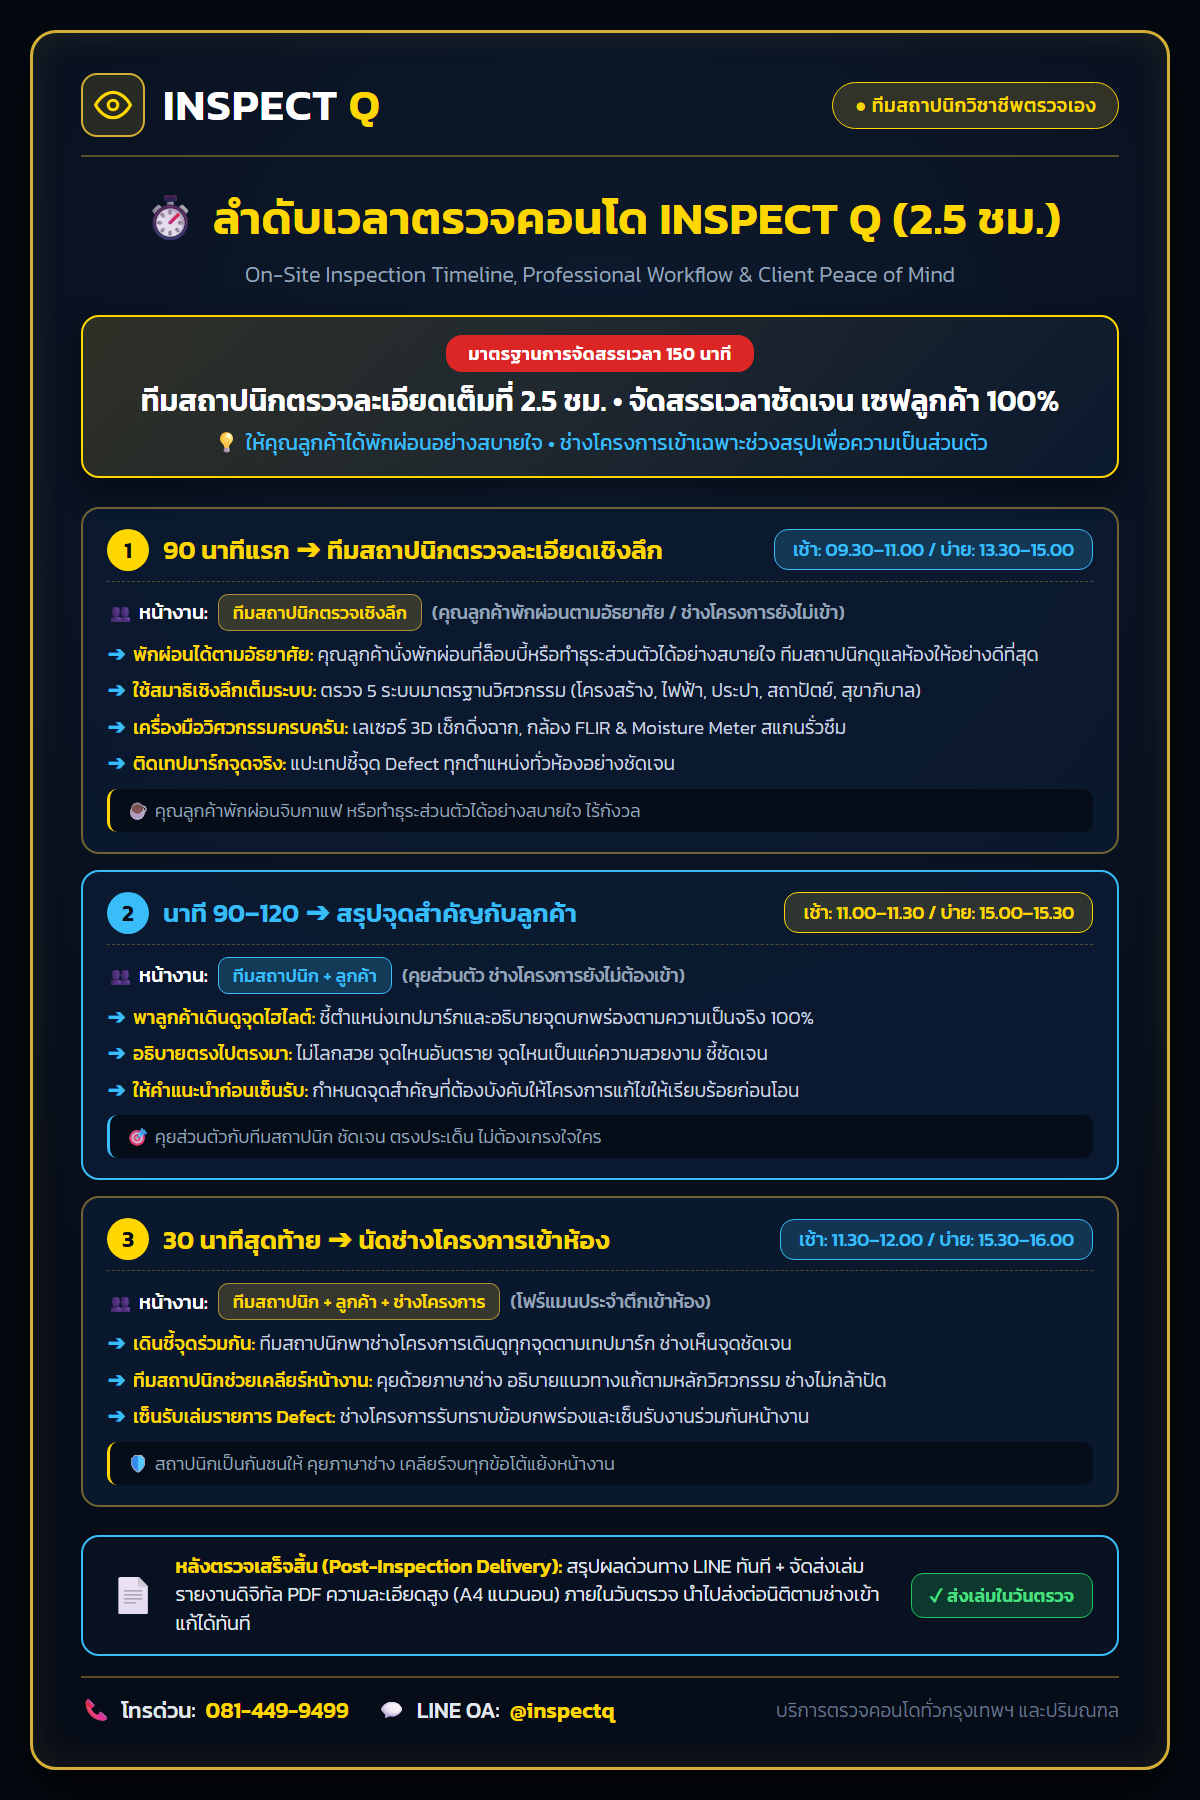
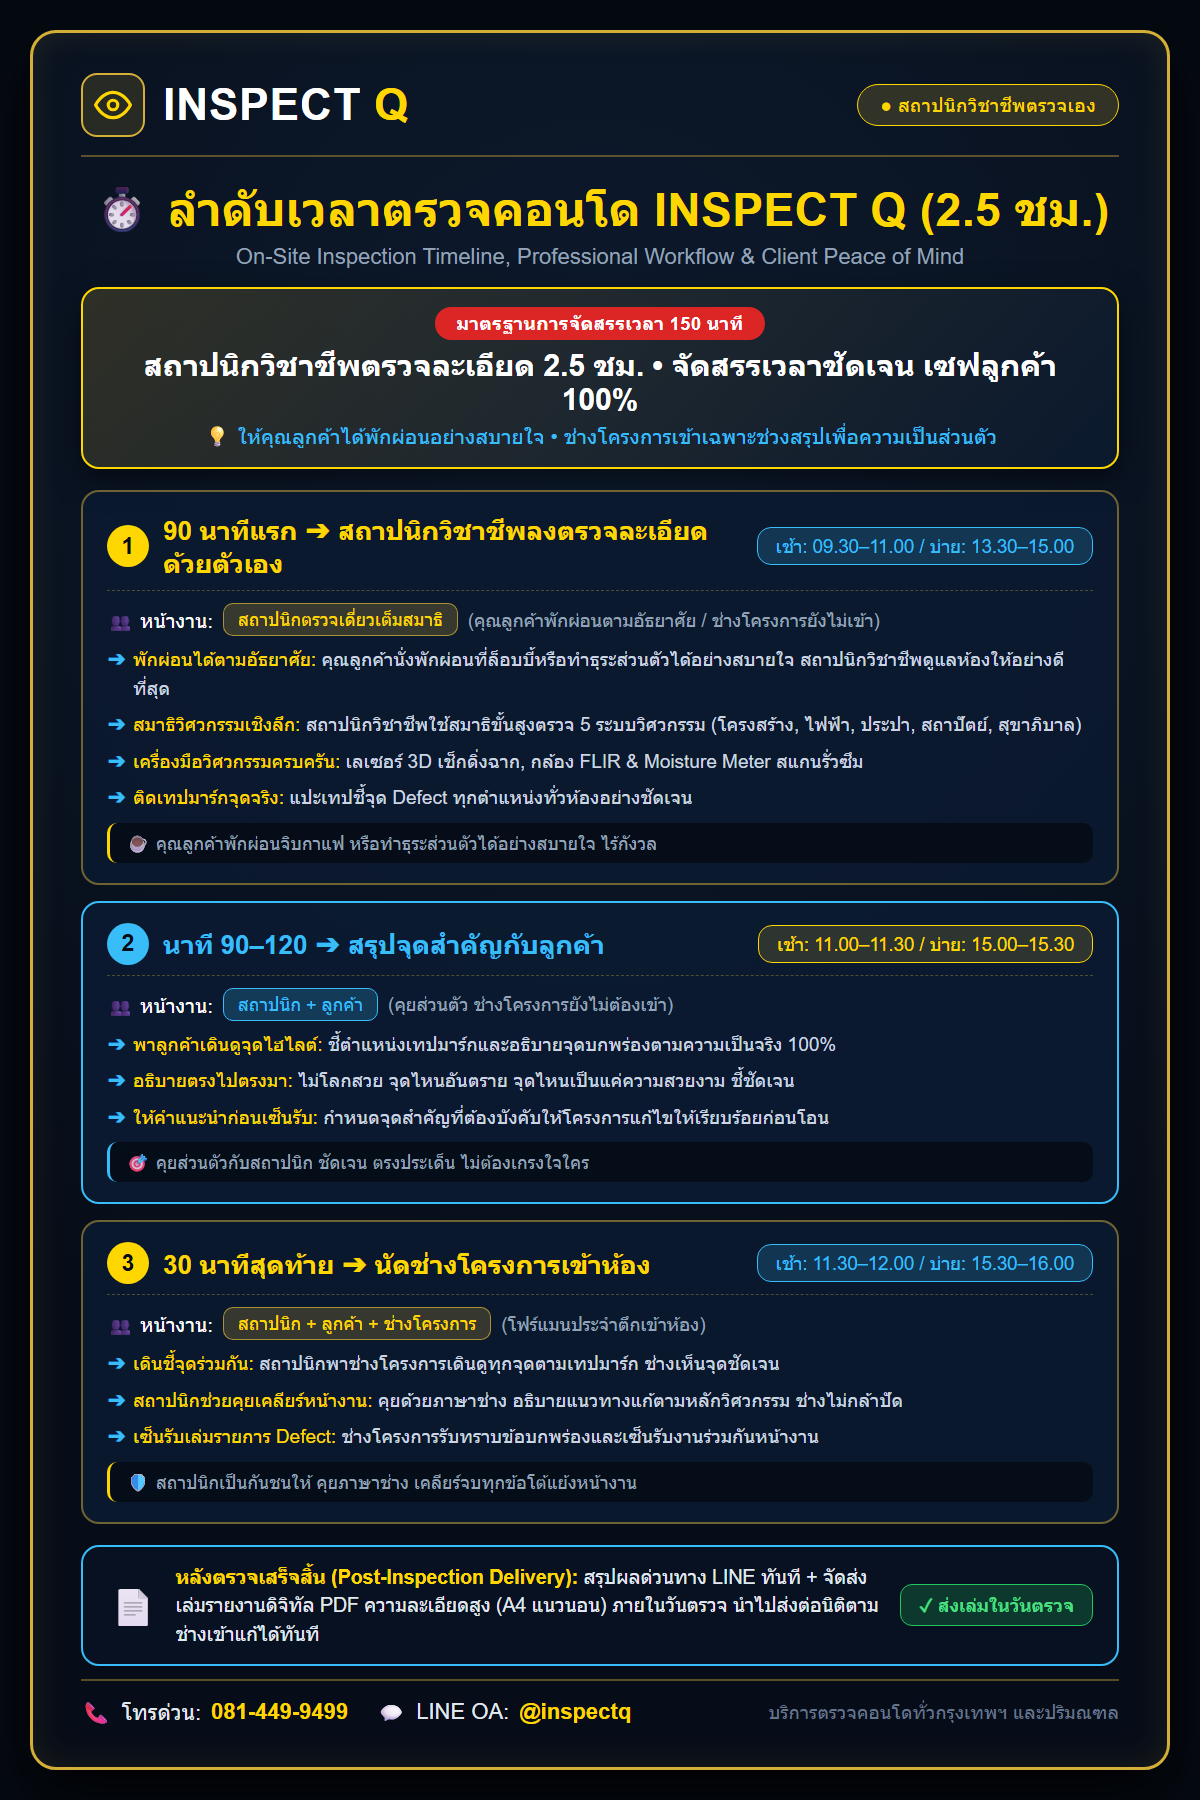
chore: update Card 09 wording to 'สถาปนิกวิชาชีพลงตรวจละเอียดด้วยตัวเอง' (no ทีม, no คนเดียว)

Changed region(s): [[0.0617, 0.0311, 0.925, 0.9644]]

diff --git a/line.html b/line.html
@@ -689,16 +689,16 @@ https://seemee1234-dev.github.io/seemeinspect/landing.html
     </div>
     <div class="content-box" id="t12" contenteditable="false">🏛 ลำดับเวลาตรวจคอนโด INSPECT Q (2.5 ชม.) ⏱
 
-1⃣ 90 นาทีแรก ➔ ทีมสถาปนิกตรวจละเอียดเชิงลึก
-• คุณลูกค้าพักผ่อนได้ตามอัธยาศัย หรือทำธุระส่วนตัว
+1⃣ 90 นาทีแรก ➔ สถาปนิกวิชาชีพตรวจละเอียดด้วยตัวเอง
+• ลูกค้าพักผ่อนตามอัธยาศัย • สถาปนิกตรวจเดี่ยวเต็มสมาธิ
 • สแกน 5 ระบบ, เลเซอร์ 3D, สแกนชื้น, ติดเทปมาร์ก
 
 2⃣ นาที 90–120 ➔ สรุปจุดสำคัญกับลูกค้า
 • พาลูกค้าเดินดูจุดไฮไลต์ อธิบายจุดต้องแก้ตรงไปตรงมา
 
 3⃣ 30 นาทีสุดท้าย ➔ นัดช่างโครงการเข้าห้อง
-• ทีมสถาปนิก + ลูกค้า + ช่างโครงการ เดินดูจุดร่วมกัน
-• ทีมสถาปนิกช่วยเคลียร์จุดซ่อมกับช่างให้ตรงหลักช่าง
+• สถาปนิก + ลูกค้า + ช่างโครงการ เดินดูจุดร่วมกัน
+• สถาปนิกช่วยคุยเคลียร์จุดซ่อมกับช่างให้ตรงหลักช่าง
 
 📄 หลังตรวจ: สรุปด่วนใน LINE + ส่งเล่ม PDF คมชัด 🤝</div>
   </div>
